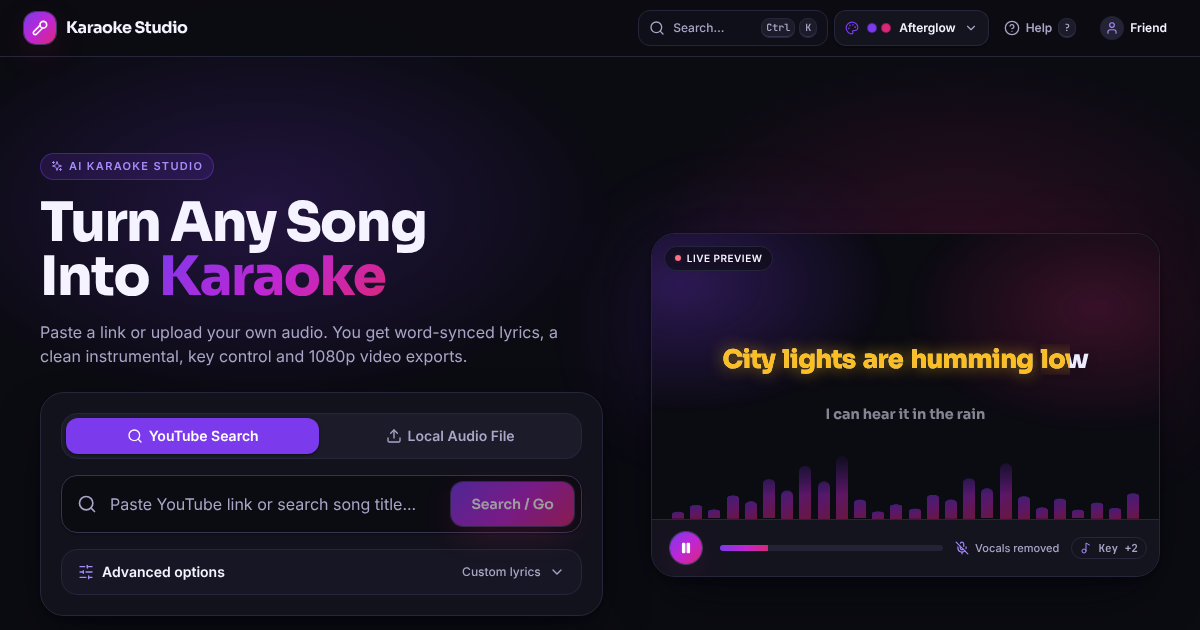
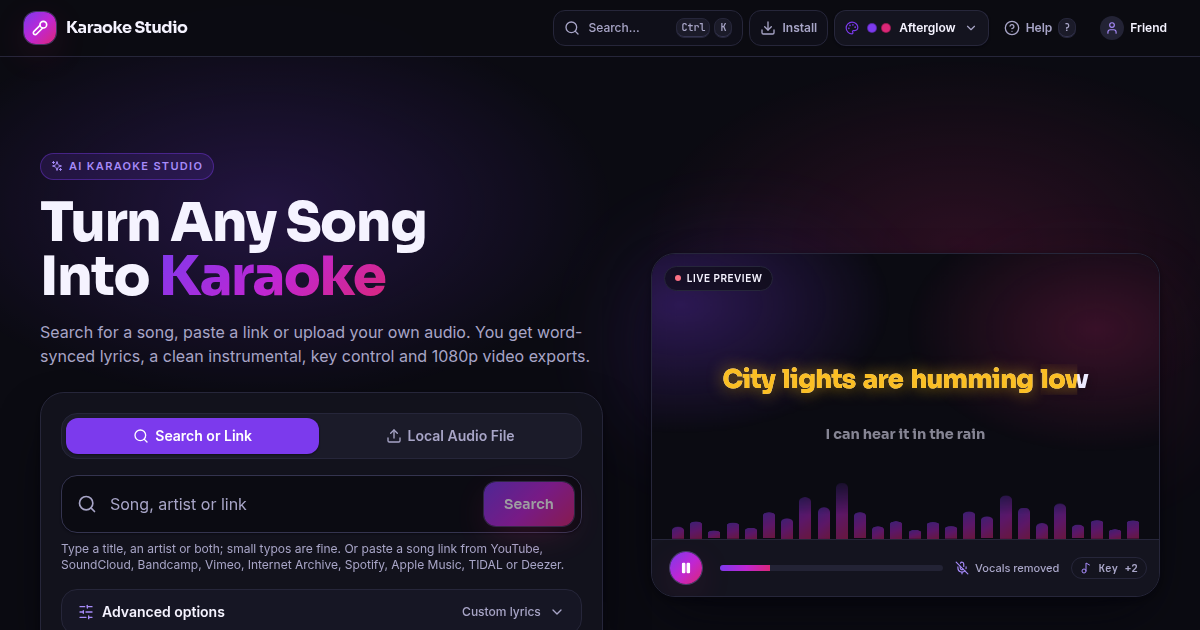
docs(readme): retake the home-screen screenshots and show the song search
The library, stem-quality, phone-library and link-preview images still
showed a "YouTube Search" tab and a "Paste YouTube link" box from before
2.10. They are retaken from the seeded demo library at their old sizes
(2160 px wide for the README, 1080x1920 for the install sheet, 1200x630
for the link preview), and a new screenshot shows the song search: a
misspelled query, the respelling line, versions with their badges and a
song that is already in the library. Its songs are made up, served by a
stand-in catalog with generated artwork, so no real artist or cover art
is in the repository.

The README's screenshot table gains the search after the library, and
the "search does not list my song" row moves next to "Processing
failed", as in Help.

diff --git a/README.md b/README.md
@@ -18,15 +18,15 @@ Local-first web app that turns any song into karaoke: it splits the vocals from 
 
 | | |
 | :---: | :---: |
-| ![Song library and intake](docs/screenshots/library.png) <br> Library and intake | ![Stem quality picker](docs/screenshots/separation-quality.png) <br> Stem quality at intake |
-| ![Improve stem separation](docs/screenshots/improve-stems.png) <br> Re-make stems at another quality | ![Re-align a line](docs/screenshots/realign-line.png) <br> Re-align one line |
-| ![Lines that need review](docs/screenshots/needs-review.png) <br> Needs review | ![Command palette](docs/screenshots/command-palette.png) <br> Command palette |
-| ![Export dialog](docs/screenshots/export.png) <br> Export | ![Processing](docs/screenshots/processing.png) <br> Processing |
-| ![Monolith Press theme](docs/screenshots/theme-monolith-press.png) <br> Monolith Press theme | ![Midnight KTV Booth theme](docs/screenshots/theme-midnight-ktv.png) <br> Midnight KTV Booth theme |
-| ![Phone stage](docs/screenshots/phone-stage.png) <br> Phone: stage | ![Phone timeline](docs/screenshots/phone-timeline.png) <br> Phone: timeline |
-| ![First-song steps](docs/screenshots/first-song.png) <br> First-song steps | ![Song check-up](docs/screenshots/song-checkup.png) <br> Song check-up |
-| ![Fix a problem in Help](docs/screenshots/help-fix-a-problem.png) <br> Help: Fix a problem | ![A failed song](docs/screenshots/processing-failed.png) <br> A song that failed |
-| ![Upload to YouTube steps](docs/screenshots/youtube-upload.png) <br> Export: Upload to YouTube | |
+| ![Song library and intake](docs/screenshots/library.png) <br> Library and intake | ![Song search](docs/screenshots/song-search.png) <br> Song search: a misspelled title, versions, a song already made |
+| ![Stem quality picker](docs/screenshots/separation-quality.png) <br> Stem quality at intake | ![Improve stem separation](docs/screenshots/improve-stems.png) <br> Re-make stems at another quality |
+| ![Re-align a line](docs/screenshots/realign-line.png) <br> Re-align one line | ![Lines that need review](docs/screenshots/needs-review.png) <br> Needs review |
+| ![Command palette](docs/screenshots/command-palette.png) <br> Command palette | ![Export dialog](docs/screenshots/export.png) <br> Export |
+| ![Processing](docs/screenshots/processing.png) <br> Processing | ![Monolith Press theme](docs/screenshots/theme-monolith-press.png) <br> Monolith Press theme |
+| ![Midnight KTV Booth theme](docs/screenshots/theme-midnight-ktv.png) <br> Midnight KTV Booth theme | ![Phone stage](docs/screenshots/phone-stage.png) <br> Phone: stage |
+| ![Phone timeline](docs/screenshots/phone-timeline.png) <br> Phone: timeline | ![First-song steps](docs/screenshots/first-song.png) <br> First-song steps |
+| ![Song check-up](docs/screenshots/song-checkup.png) <br> Song check-up | ![Fix a problem in Help](docs/screenshots/help-fix-a-problem.png) <br> Help: Fix a problem |
+| ![A failed song](docs/screenshots/processing-failed.png) <br> A song that failed | ![Upload to YouTube steps](docs/screenshots/youtube-upload.png) <br> Export: Upload to YouTube |
 
 ## Using Karaoke Studio
 
@@ -57,7 +57,6 @@ After changing the lyrics, the key or the look, **Render Again** makes a new vid
 
 | What you notice | What to do |
 | :--- | :--- |
-| The search does not list my song, or lists another version | Add the artist to the title, or type a line of the lyrics; small typos are fine. Tell versions apart by the album, the year, the length and the badge (Live, Remix, Edit), and tap the artwork to hear 30 seconds. **Show more songs** lists the matches after the first five. **Search YouTube uploads**, under the songs, lists videos of a recording the catalogs do not have; or paste a link, or upload the audio. |
 | There are no lyrics | **Re-import** in the timeline: search with a simpler title or the original artist, or paste the lyrics (plain text or LRC). Pasted words are timed to the singing. |
 | The lyrics are for another song or version | Fix the title or artist with the pencil next to the title, then **Re-import → Re-query LRCLIB** and apply the listing that matches what is sung. |
 | The words are early or late through the whole song | **Offset** shifts every line; start with 0.1 to 0.5 s. If the gap changes through the song, re-align all lines from the Re-import dialog or the command palette. |
@@ -68,6 +67,7 @@ After changing the lyrics, the key or the look, **Render Again** makes a new vid
 | I asked for Best and got Fast | The better model could not run (cloud GPU busy or unreachable, model not installed, too little memory). The check-up says why; **Improve** again later. |
 | It is a duet, but every line has one colour | **Duet parts → By Voice**; if it finds one voice, use Alternating or set lines with the singer chip. |
 | The song is too high or too low | Shift the key in Audio mix, or ask the **Smart Recommender**. |
+| The search does not list my song, or lists another version | Add the artist to the title, or type a line of the lyrics; small typos are fine. Tell versions apart by the album, the year, the length and the badge (Live, Remix, Edit), and tap the artwork to hear 30 seconds. **Show more songs** lists the matches after the first five. **Search YouTube uploads**, under the songs, lists videos of a recording the catalogs do not have; or paste a link, or upload the audio. |
 | Processing failed | The failed song says what happened in plain words (a private, blocked or removed song, a sign-in check, a link that holds a whole album, a song picked from the search, or a Spotify, Apple Music, TIDAL or Deezer link, with no matching YouTube upload, a live stream or a recording longer than the server allows, a download that did not get through) and has **Try again** (a song from an uploaded file is uploaded again instead). Most Vimeo videos need a sign-in the server does not have. If it fails the same way, search for the song again and pick one of the YouTube uploads listed under the songs, paste another copy of it, or download the audio yourself and upload it. |
 | The video render failed, or takes very long | **Try Again** in Export. A render draws every frame, so a few minutes is normal; you can close the dialog while it runs, and a failed render keeps the previous video. |
 | I don't know how to get the video onto YouTube | Render and download it, then follow **Upload to YouTube** under the finished video. See [Putting the video on YouTube](#putting-the-video-on-youtube). |
